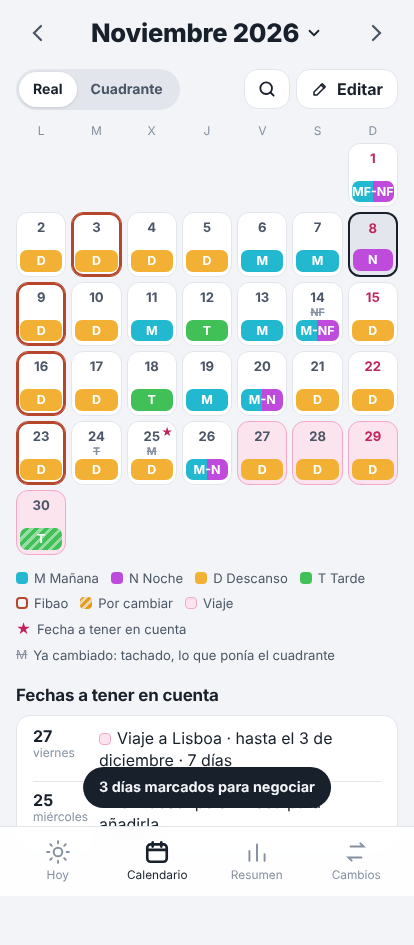
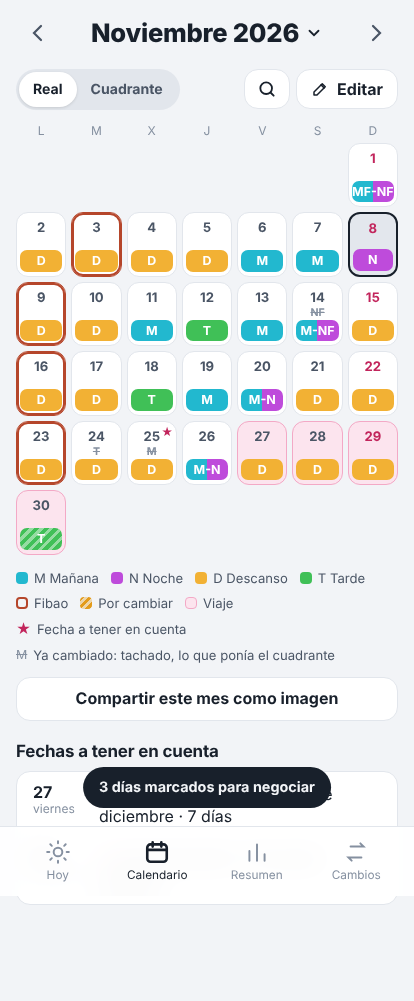
v16: noche de hoy, cuenta atrás, aviso de descanso, peticiones apuntadas, saldo de días, complementos, compartir mes; corrige fin de turnos de noche
Claude-Session: https://claude.ai/code/session_01SQ5JsgcWyGYgjEVdavBUjE

diff --git a/app.js b/app.js
@@ -91,7 +91,7 @@
     (S.data.dias || []).forEach(d => { MAP[d.f] = Object.assign({}, d); });
     Object.keys(S.pending).forEach(f => { MAP[f] = Object.assign({}, MAP[f] || { f }, S.pending[f]); clean(MAP[f]); });
   }
-  function clean(d) { ['r', 'o', 'n', 'c', 'pm', 'sw', 'vj'].forEach(k => { if (d[k] === '') delete d[k]; }); ['fb', 'fe', 'im', 'pd', 'eu'].forEach(k => { if (!d[k]) delete d[k]; }); }
+  function clean(d) { ['r', 'o', 'n', 'c', 'pm', 'sw', 'vj', 'pt'].forEach(k => { if (d[k] === '') delete d[k]; }); ['fb', 'fe', 'im', 'pd', 'eu'].forEach(k => { if (!d[k]) delete d[k]; }); }
 
   /* ───────── horarios ───────── */
   function intervals(fromDate, days) {
@@ -107,11 +107,33 @@
     }
     return out.sort((a, b) => a.start - b.start);
   }
+  // descanso entre turnos: tras una noche, al menos 12 h hasta el siguiente; nunca turnos que se pisen
+  function avisosDescanso(over) {
+    const fs = new Set();
+    Object.keys(over).forEach(f => [-1, 0, 1].forEach(k => fs.add(iso(addDays(parseISO(f), k)))));
+    const ints = [];
+    [...fs].sort().forEach(f => {
+      const dt = parseISO(f), d = over[f] ? Object.assign({}, day(f), over[f]) : day(f);
+      parts(real(d)).forEach(p => { const c = info(p.base); if (c.tipo === 'turno' && c.inicio && c.fin) ints.push(mkInt(dt, c.inicio, c.fin, shortName(p.base), p.base, f)); });
+      if (d.fb) ints.push(mkInt(dt, cfg().fibao_inicio || '08:00', cfg().fibao_fin || '14:00', 'Fibao', 'FB', f));
+    });
+    ints.sort((x, y) => x.start - y.start);
+    const out = [];
+    for (let i = 1; i < ints.length; i++) {
+      const A = ints[i - 1], B = ints[i], gap = (B.start - A.end) / 36e5;
+      if (!over[A.f] && !over[B.f]) continue;
+      const dA = parseISO(A.f), dB = parseISO(B.f);
+      const txt = (x, dt) => x.name.toLowerCase() + ' del ' + DIAS[dt.getDay()] + ' ' + dt.getDate();
+      if (gap < 0) out.push('La ' + txt(A, dA) + ' (hasta las ' + A.fin + ') se pisa con ' + (B.base === 'FB' ? 'Fibao' : 'la ' + B.name.toLowerCase()) + ' del ' + DIAS[dB.getDay()] + ' ' + dB.getDate() + ' (desde las ' + B.ini + ').');
+      else if (A.base === 'N' && gap < 12) out.push('Sales de la noche del ' + DIAS[dA.getDay()] + ' ' + dA.getDate() + ' a las ' + A.fin + ' y entras ' + (B.base === 'FB' ? 'en Fibao' : 'de ' + B.name.toLowerCase()) + ' a las ' + B.ini + ': solo ' + fmtH(gap) + ' h de descanso.');
+    }
+    return out;
+  }
   function mkInt(dt, ini, fin, name, base, f) {
     const [a, b] = ini.split(':').map(Number), [c, e] = fin.split(':').map(Number);
     const start = new Date(dt.getFullYear(), dt.getMonth(), dt.getDate(), a, b);
     let end = new Date(dt.getFullYear(), dt.getMonth(), dt.getDate(), c, e);
-    if (end <= start) end = addDays(end, 1);
+    if (end <= start) end = new Date(dt.getFullYear(), dt.getMonth(), dt.getDate() + 1, c, e); // turno que acaba al día siguiente (addDays quitaría la hora)
     return { start, end, name, base, f, ini, fin };
   }
   function rel(ms) {
@@ -198,22 +220,25 @@
     }
 
     // datos rápidos
-    const nextOf = (pred) => { for (let i = 1; i < 120; i++) { const dt = addDays(now, i); if (pred(real(day(iso(dt))), day(iso(dt)))) return dt; } return null; };
-    const nN = nextOf(c => parts(c).some(p => p.base === 'N'));
+    const nextOf = (pred, from = 1) => { for (let i = from; i < 120; i++) { const dt = addDays(now, i); if (pred(real(day(iso(dt))), day(iso(dt)))) return dt; } return null; };
+    const nN = nextOf(c => parts(c).some(p => p.base === 'N'), 0); // la noche de hoy aún no ha empezado o está en curso
     const nL = nextOf(c => c && !worked(c));
-    const nFb = nextOf((c, dd) => !!dd.fb);
+    const hm = String(now.getHours()).padStart(2, '0') + ':' + String(now.getMinutes()).padStart(2, '0');
+    const nFb = nextOf((c, dd) => !!dd.fb, hm < (cfg().fibao_fin || '14:00') ? 0 : 1);
     const wk0 = addDays(now, -((now.getDay() + 6) % 7));
     let wkH = 0; for (let i = 0; i < 7; i++) wkH += hoursOf(real(day(iso(addDays(wk0, i)))));
-    const inDays = (dt) => { const n = Math.round((dt - new Date(now.getFullYear(), now.getMonth(), now.getDate())) / 864e5); return n === 1 ? 'mañana' : 'en ' + n + ' días'; };
+    const dayN = (dt) => Math.round((new Date(dt.getFullYear(), dt.getMonth(), dt.getDate()) - new Date(now.getFullYear(), now.getMonth(), now.getDate())) / 864e5);
+    const inDays = (dt, hoy = 'hoy') => { const n = dayN(dt); return n === 0 ? hoy : n === 1 ? 'mañana' : 'en ' + n + ' días'; };
+    const diaCorto = (dt) => dayN(dt) === 0 ? 'Hoy' : cap(DIAS[dt.getDay()]) + ' ' + dt.getDate();
     const fact = (k, v, s) => `<div class="fact"><div class="k">${k}</div><div class="v">${v}</div><div class="s">${s || ''}</div></div>`;
     const sal = saldos();
     $('#hoy-debe').innerHTML = sal.length ? `<h3>Horas pendientes de devolver</h3><button type="button" class="card debe" data-s="cam">` + sal.slice(0, 5).map(([n, h]) =>
       `<span class="saldo${isCasa(n) ? ' casa' : ''}"><span class="who">${isCasa(n) ? ICON_CASA : ''}${esc(n)}</span><span class="h ${h > 0 ? 'pos' : 'neg'}">${h > 0 ? 'te debe ' : 'le debes '}${fmtH(Math.abs(h))} h</span></span>`).join('') + '</button>' : '';
     $('#facts').innerHTML =
-      fact('Próxima noche', nN ? cap(DIAS[nN.getDay()]) + ' ' + nN.getDate() : '—', nN ? inDays(nN) : 'sin noches a la vista') +
+      fact('Próxima noche', nN ? diaCorto(nN) : '—', nN ? inDays(nN, 'esta noche') : 'sin noches a la vista') +
       fact('Próximo día libre', nL ? cap(DIAS[nL.getDay()]) + ' ' + nL.getDate() : '—', nL ? inDays(nL) : '') +
       fact('Esta semana', fmtH(wkH) + ' h', 'de lunes a domingo') +
-      fact('Próximo Fibao', nFb ? cap(DIAS[nFb.getDay()]) + ' ' + nFb.getDate() : '—', nFb ? inDays(nFb) : 'sin mañanas apuntadas');
+      fact('Próximo Fibao', nFb ? diaCorto(nFb) : '—', nFb ? inDays(nFb) : 'sin mañanas apuntadas') + cuentaAtras(now, dayN);
 
     // año
     const st = stats(now.getFullYear());
@@ -344,6 +369,82 @@
     if (code && isWorkBase(code) && isSunOrFest(f)) code += 'F';
     setLayer(f, S.layer, code);
   }
+  /* ───────── compartir el mes como imagen ───────── */
+  async function exportMes() {
+    const m0 = S.month, y = m0.getFullYear(), m = m0.getMonth(), layer = S.layer;
+    const cs = getComputedStyle(document.documentElement);
+    const col = (c) => { c = String(c || '').trim(); const v = c.match(/^var\((--[\w-]+)\)$/); return v ? cs.getPropertyValue(v[1]).trim() || '#888' : c || '#888'; };
+    const W = 1080, pad = 48, gap = 10, cw = (W - pad * 2 - gap * 6) / 7, ch = cw * 1.12;
+    const lead = (m0.getDay() + 6) % 7, nd = new Date(y, m + 1, 0).getDate(), rows = Math.ceil((lead + nd) / 7);
+    const used = new Set(), H = 250 + rows * (ch + gap) + 150;
+    const cv = document.createElement('canvas'); cv.width = W; cv.height = H;
+    const g = cv.getContext('2d'), FONT = '-apple-system, "Segoe UI", Roboto, sans-serif';
+    const rr = (x, y0, w, h, r) => { g.beginPath(); g.moveTo(x + r, y0); g.arcTo(x + w, y0, x + w, y0 + h, r); g.arcTo(x + w, y0 + h, x, y0 + h, r); g.arcTo(x, y0 + h, x, y0, r); g.arcTo(x, y0, x + w, y0, r); g.closePath(); };
+    g.fillStyle = '#F2F4F7'; g.fillRect(0, 0, W, H);
+    g.fillStyle = '#18202B'; g.font = `800 64px ${FONT}`; g.fillText(cap(MESES[m]) + ' ' + y, pad, 110);
+    g.fillStyle = '#4A5565'; g.font = `500 32px ${FONT}`; g.fillText('Turnos' + (cfg().nombre ? ' de ' + cfg().nombre : '') + (layer === 'orig' ? ' · cuadrante' : ''), pad, 160);
+    g.font = `700 26px ${FONT}`; g.textAlign = 'center';
+    ['L', 'M', 'X', 'J', 'V', 'S', 'D'].forEach((x, i) => { g.fillStyle = i === 6 ? '#C2255C' : '#8590A0'; g.fillText(x, pad + i * (cw + gap) + cw / 2, 222); });
+    for (let k = 1; k <= nd; k++) {
+      const i = lead + k - 1, x = pad + (i % 7) * (cw + gap), y0 = 240 + Math.floor(i / 7) * (ch + gap);
+      const f = iso(new Date(y, m, k)), d = day(f), c = layer === 'orig' ? (d.o || '') : real(d);
+      rr(x, y0, cw, ch, 18); g.fillStyle = d.vj ? '#FCE4EE' : '#FFFFFF'; g.fill();
+      g.lineWidth = d.fb ? 6 : 2; g.strokeStyle = d.fb ? col('var(--fibao)') : d.vj ? '#F3A9C6' : '#E2E6EC'; g.stroke();
+      g.fillStyle = isSunOrFest(f) ? '#C2255C' : '#4A5565'; g.font = `700 30px ${FONT}`; g.fillText(String(k), x + cw / 2, y0 + 42);
+      if (d.im) { g.fillStyle = '#C2255C'; g.font = `700 26px ${FONT}`; g.fillText('★', x + cw - 22, y0 + 32); }
+      const ps = parts(c);
+      if (ps.length) {
+        const px = x + 10, pw = cw - 20, py = y0 + ch - 58, ph = 44;
+        g.save(); rr(px, py, pw, ph, 10); g.clip();
+        ps.forEach((p, j) => { g.fillStyle = col(info(p.base).color); g.fillRect(px + pw * j / ps.length, py, pw / ps.length + 1, ph); used.add(p.base); });
+        if (d.pd) { g.strokeStyle = 'rgba(255,255,255,.5)'; g.lineWidth = 5; for (let s = -ph; s < pw + ph; s += 14) { g.beginPath(); g.moveTo(px + s, py + ph); g.lineTo(px + s + ph, py); g.stroke(); } }
+        g.restore();
+        g.fillStyle = '#FFFFFF'; g.font = `800 ${c.length > 4 ? 22 : 28}px ${FONT}`; g.fillText(c, px + pw / 2, py + 31);
+      }
+    }
+    // leyenda
+    g.textAlign = 'left'; g.font = `500 26px ${FONT}`;
+    let lx = pad, ly = 240 + rows * (ch + gap) + 50;
+    const item = (color, txt, border) => {
+      const w = g.measureText(txt).width + 50;
+      if (lx + w > W - pad) { lx = pad; ly += 44; }
+      rr(lx, ly - 22, 26, 26, 6); g.fillStyle = color; g.fill(); if (border) { g.lineWidth = 3; g.strokeStyle = border; g.stroke(); }
+      g.fillStyle = '#4A5565'; g.fillText(txt, lx + 36, ly); lx += w + 18;
+    };
+    [...used].forEach(b => item(col(info(b).color), b + ' ' + info(b).nombre));
+    for (let k = 1; k <= nd; k++) { const d = day(iso(new Date(y, m, k))); if (d.fb) { item('#FFFFFF', 'Fibao', col('var(--fibao)')); break; } }
+    for (let k = 1; k <= nd; k++) { const d = day(iso(new Date(y, m, k))); if (d.vj) { item('#FCE4EE', d.vj, '#F3A9C6'); break; } }
+    const blob = await new Promise(res => cv.toBlob(res, 'image/png'));
+    const name = 'Turnos ' + MESES[m] + ' ' + y + '.png';
+    const file = new File([blob], name, { type: 'image/png' });
+    if (navigator.canShare && navigator.canShare({ files: [file] })) {
+      try { await navigator.share({ files: [file], title: 'Turnos ' + MESES[m] + ' ' + y }); } catch (e) { /* cancelado */ }
+      return;
+    }
+    const url = URL.createObjectURL(blob), a2 = document.createElement('a');
+    a2.href = url; a2.download = name; document.body.appendChild(a2); a2.click(); a2.remove();
+    setTimeout(() => URL.revokeObjectURL(url), 5000);
+  }
+
+  /* ───────── cuenta atrás: vacaciones y viajes ───────── */
+  function cuentaAtras(now, dayN) {
+    const isV = (d) => parts(real(d)).some(p => p.base === 'V');
+    const out = [];
+    const bloque = (test, label, nombre) => {
+      for (let i = 0; i < 400; i++) {
+        const dt = addDays(now, i), d = day(iso(dt));
+        if (!test(d)) continue;
+        let fin = dt; while (test(day(iso(addDays(fin, 1))))) fin = addDays(fin, 1);
+        const n = dayN(dt), hasta = fin.getDate() + ' ' + MESES_C[fin.getMonth()];
+        out.push(`<div class="fact count"><div class="k">${label}</div><div class="v">${n === 0 ? 'Ya estás' : n === 1 ? 'Mañana' : n + ' días'}</div><div class="s">${esc(nombre(d))}${n === 0 ? ' · hasta el ' + hasta : ' · ' + dt.getDate() + ' ' + MESES_C[dt.getMonth()] + (fin > dt ? '–' + hasta : '')}</div></div>`);
+        return;
+      }
+    };
+    bloque(isV, 'Vacaciones', () => 'Vacaciones');
+    bloque(d => !!d.vj, 'Viaje', d => d.vj);
+    return out.join('');
+  }
+
   /* ───────── saldos con compañeras y la casa (todos los años) ───────── */
   function saldos() {
     const s = {};
@@ -366,6 +467,21 @@
   }
   const diaTxt = (dt, ref) => DIAS[dt.getDay()] + ' ' + dt.getDate() + (!ref || dt.getMonth() !== ref.getMonth() ? ' de ' + MESES[dt.getMonth()] : '');
   /* ───────── pedir el cambio por WhatsApp ───────── */
+  const peticiones = (d) => { try { const v = JSON.parse(d.pt || '[]'); return Array.isArray(v) ? v : []; } catch (e) { return []; } };
+  function petTxt(p, ref) {
+    const dt = parseISO(p.d), cuando = dt.getDate() + ' ' + MESES_C[dt.getMonth()];
+    const como = p.m === 'dev' ? (p.o && p.o.length ? 'le ofreces ' + p.o.map(f => diaTxt(parseISO(f), parseISO(ref))).join(', ') : 'con devolución') : p.m === 'pago' ? (p.e ? 'pagándolo, ' + fmtE(p.e) : 'pagándolo') : 'a convenir';
+    return 'Pedido ' + (p.a ? 'a ' + p.a + ' ' : '') + 'el ' + cuando + ' · ' + como;
+  }
+  function apuntarPeticion() {
+    const e = parseFloat(String(WA.eur).replace(',', '.'));
+    const p = { a: ($('#wa-a').value || '').trim().slice(0, 40), d: iso(new Date()), m: WA.mode };
+    if (WA.mode === 'dev' && WA.days.length) p.o = WA.days.slice().sort();
+    if (WA.mode === 'pago' && isFinite(e) && e > 0) p.e = e;
+    const list = peticiones(day(WA.f)).concat(p).slice(-6);
+    const f = WA.f;
+    setTimeout(() => { save(f, { pt: JSON.stringify(list) }); closeEditor(); toast('Apuntado en «Por negociar»' + (p.a ? ': pedido a ' + p.a : '')); }, 400);
+  }
   let WA = null;
   function mensajeCambio() {
     const d = day(WA.f), dt = parseISO(WA.f), c = real(d);
@@ -391,6 +507,7 @@
         <small class="muted" id="wa-help" style="display:block;margin-top:6px"></small></div>
       <div class="field" id="wa-dev"><span>Días que le ofreces (toca uno o varios)</span><div class="mini" id="wa-mini"></div></div>
       <label class="field" id="wa-pago" hidden><span>Cuánto le pagas (opcional)</span><input id="wa-eur" inputmode="decimal" placeholder="Ej.: 60" autocomplete="off"></label>
+      <label class="field"><span>A quién se lo pides (para apuntarlo; opcional)</span><input id="wa-a" list="wa-names" placeholder="Nombre de la compañera" autocomplete="off"><datalist id="wa-names">${[...new Set(Object.values(MAP).map(d => d.c).filter(c => c && !isCasa(c)))].sort().map(n => `<option value="${esc(n)}">`).join('')}</datalist></label>
       <label class="field"><span>Mensaje (puedes cambiarlo; si cambias una opción de arriba, se vuelve a escribir)</span><textarea id="wa-txt" rows="4"></textarea></label>
       <div class="actions"><button type="button" class="btn ghost" id="ed-back">Volver</button><a class="btn" id="wa-go" target="_blank" rel="noopener" style="display:inline-flex;align-items:center;justify-content:center;text-decoration:none">Abrir WhatsApp</a></div>`;
     drawWA();
@@ -665,6 +782,7 @@
       <div class="field"><span>Importe</span><div class="money">
         <div class="seg" role="group" aria-label="Cobro o pago"><button data-eus="1" aria-pressed="${ED.eu >= 0}">Cobro</button><button data-eus="-1" aria-pressed="${ED.eu < 0}">Pago</button></div>
         <input id="ed-eu" inputmode="decimal" value="${ED.eu ? String(Math.abs(ED.eu)).replace('.', ',') : ''}" placeholder="0" aria-label="Importe en euros"><span class="muted">€</span></div></div></div>
+      <div class="warnbox" id="ed-warn" hidden></div>
       <div class="actions"><button class="btn danger" id="ed-clear">Vaciar</button><button class="btn ghost" id="ed-back">Volver</button><button class="btn" id="ed-save">Guardar</button></div>`;
     drawCodes(); drawSwap();
     sh.classList.add('on'); $('#scrim').classList.add('on');
@@ -681,6 +799,7 @@
       const i = ED.sel.indexOf(b);
       return `<button class="code-btn" data-code="${b}" aria-pressed="${i >= 0}" style="background:${info(b).color};--cc:${info(b).color}" title="${esc(info(b).nombre)}">${esc(b)}${i >= 0 && ED.sel.length > 1 ? '<span class="ord">' + (i + 1) + '</span>' : ''}</button>`;
     }).join('');
+    if (ED.warned) { ED.warned = false; const bx = $('#ed-warn'); if (bx) { bx.hidden = true; $('#ed-save').textContent = 'Guardar'; } }
     const code = edCode();
     $('#ed-prev').innerHTML = code ? pill(code, 'pill') + ' <span style="font-size:1rem;color:var(--ink-2)">' + esc(parts(code).map(p => info(p.base).nombre).join(' + ')) + '</span>' : '<span class="muted" style="font-size:1rem">Sin turno</span>';
     $('#ed-hours').textContent = code ? fmtH(hoursOf(code)) + ' h' : '';
@@ -729,6 +848,28 @@
   function closeSheet() { $('#sheet').classList.remove('on'); $('#scrim').classList.remove('on'); ED = null; if (S.reloadPending) setTimeout(S.reloadPending, 300); }
   // Guardar siempre cierra la ventana; si algo falla, se avisa en vez de quedarse abierta
   function saveEditor() {
+    // primero, comprobar el descanso; si hay problema, se avisa y el segundo toque guarda igualmente
+    try {
+      if (!ED.warned) {
+        const code = edCode(), d = day(ED.f), over = {};
+        const realNuevo = ED.layer === 'real' ? code : (!d.r || d.r === d.o ? code : d.r);
+        over[ED.f] = { r: realNuevo, o: ED.layer === 'orig' ? code : d.o, fb: ED.fb ? 1 : 0 };
+        const sw = ED.mode === 'dia' && $('#ed-sw').value && $('#ed-sw').value !== ED.f ? $('#ed-sw').value : '';
+        if (sw && ED.swc) over[sw] = { r: compose(parts(ED.swc).map(p => ({ base: p.base, f: isSunOrFest(sw) }))) };
+        // solo los problemas nuevos: lo que ya estaba así (p. ej. Fibao al salir de noche) no se vuelve a avisar
+        const antes = {}; Object.keys(over).forEach(k => { antes[k] = {}; });
+        const ya = new Set(avisosDescanso(antes));
+        const w = avisosDescanso(over).filter(x => !ya.has(x));
+        if (w.length) {
+          ED.warned = true;
+          const box = $('#ed-warn'); box.hidden = false;
+          box.innerHTML = '<b>Ojo con el descanso</b>' + w.map(x => '<p>' + esc(x) + '</p>').join('') + '<p class="muted">Si está bien así, pulsa «Guardar igualmente».</p>';
+          $('#ed-save').textContent = 'Guardar igualmente';
+          box.scrollIntoView({ behavior: 'smooth', block: 'center' });
+          return;
+        }
+      }
+    } catch (err) { /* si falla la comprobación, se guarda igual */ }
     try { saveEditorInner(); } catch (err) { toast('No se ha podido guardar: ' + (err && err.message || err)); }
     finally { closeEditor(); }
   }
@@ -806,10 +947,55 @@
       ${s(st.fest, 'turnos en festivo', 'var(--fest)')}${s(st.dom, 'domingos trabajados', 'var(--fest)')}${s(st.fb, 'mañanas en Fibao', 'var(--fibao)')}
       ${s(st.V + (vac ? '<small style="font-size:.9rem;color:var(--ink-3)"> / ' + vac + '</small>' : ''), 'días de vacaciones', 'var(--v)')}${s(Object.values(st.comp).reduce((a, b) => a + b, 0), 'compensaciones', 'var(--comp)')}${s(st.cambios, 'días cambiados', 'var(--ink-3)')}</div>
       <p class="muted" style="font-size:.85rem;margin:8px 2px 0">Compensaciones: ${esc(compTxt)}</p>`;
+    html += saldoDias(y, vac) + complementos(y);
     html += `<div class="section"><h3>Horas por mes</h3><div class="card chart">${monthChart(st)}<div class="keyline"><span><i style="background:var(--ink)"></i>Real</span><span><i style="background:var(--line);outline:1px solid var(--ink-3)"></i>Cuadrante</span></div></div></div>`;
     html += `<div class="section"><h3>Horas en el SAS, año a año</h3><div class="card chart">${yearsChart(y)}</div></div>`;
     html += `<div class="section"><h3>Turnos por año</h3><div class="card chart">${turnosChart(y)}</div></div>`;
     $('#res-body').innerHTML = html;
+  }
+  /* ───────── saldo de días ───────── */
+  function saldoDias(y, vac) {
+    const today = iso(new Date()), V = { pas: 0, fut: 0, nat: 0 }, comp = {};
+    for (let dt = new Date(y, 0, 1); dt.getFullYear() === y; dt = addDays(dt, 1)) {
+      const f = iso(dt), d = MAP[f]; if (!d) continue;
+      parts(real(d)).forEach(p => {
+        const k = f <= today ? 'pas' : 'fut';
+        // vacaciones: cuentan los días laborables (de lunes a viernes y no festivos), como los 22 del SAS
+        if (p.base === 'V') { V.nat++; if (dt.getDay() !== 6 && !isSunOrFest(f)) V[k]++; }
+        else if (info(p.base).tipo === 'compensacion') { comp[p.base] = comp[p.base] || { pas: 0, fut: 0 }; comp[p.base][k]++; }
+      });
+    }
+    const tot = V.pas + V.fut, quedan = vac ? vac - tot : null;
+    let h = `<div class="section"><h3>Saldo de días ${y}</h3><div class="card">`;
+    h += `<div class="tot" style="margin-top:0;border-top:0;padding-top:0"><span>Vacaciones${vac ? ' (' + vac + ' laborables al año)' : ''}</span><b>${vac ? (quedan > 0 ? 'te quedan ' + quedan : quedan === 0 ? 'todas apuntadas' : 'te pasas en ' + (-quedan)) : tot + ' días'}</b></div>`;
+    if (vac) h += `<div class="meter vac"><b style="width:${Math.min(100, V.pas / vac * 100)}%"></b><i style="left:${Math.min(100, V.pas / vac * 100)}%;width:${Math.max(0, Math.min(100, tot / vac * 100) - Math.min(100, V.pas / vac * 100))}%"></i></div>`;
+    h += `<p class="muted" style="margin:4px 0 0;font-size:.88rem">${V.pas} ${V.pas === 1 ? 'laborable disfrutado' : 'laborables disfrutados'} · ${V.fut} ${V.fut === 1 ? 'apuntado' : 'apuntados'} para más adelante · ${V.nat} días naturales con V${vac ? '' : ' · pon en Ajustes los días de vacaciones al año para ver cuántos te quedan'}</p>`;
+    const ks = Object.keys(comp).sort();
+    if (ks.length) h += `<div class="desg" style="margin-top:12px">` + ks.map(k => `<div class="dr"><span>${esc(k)}<small>${esc(info(k).nombre)}</small></span><b>${comp[k].pas} ${comp[k].pas === 1 ? 'disfrutado' : 'disfrutados'}${comp[k].fut ? ' · ' + comp[k].fut + ' más adelante' : ''}</b></div>`).join('') + '</div>';
+    return h + '</div></div>';
+  }
+
+  /* ───────── complementos estimados (nocturnidad y festivos) ───────── */
+  function complementos(y) {
+    const eN = num(cfg().eur_noche_h), eF = num(cfg().eur_festivo_h);
+    const ms = Array.from({ length: 12 }, () => ({ n: 0, f: 0 }));
+    for (let dt = new Date(y, 0, 1); dt.getFullYear() === y; dt = addDays(dt, 1)) {
+      const f = iso(dt), d = MAP[f]; if (!d) continue;
+      parts(real(d)).forEach(p => {
+        if (!isWorkBase(p.base)) return;
+        const h = num(info(p.base).horas);
+        if (p.base === 'N') ms[dt.getMonth()].n += h;
+        if (p.f || isSunOrFest(f)) ms[dt.getMonth()].f += h;
+      });
+    }
+    const T = ms.reduce((s, m) => ({ n: s.n + m.n, f: s.f + m.f }), { n: 0, f: 0 });
+    if (!T.n && !T.f) return '';
+    const eur = (m) => m.n * eN + m.f * eF, hasE = eN || eF;
+    let h = `<div class="section"><h3>Complementos ${y}</h3><div class="card"><table class="comp"><thead><tr><th></th><th>Noche</th><th>Festivo</th>${hasE ? '<th>Estimado</th>' : ''}</tr></thead><tbody>`;
+    ms.forEach((m, i) => { if (m.n || m.f) h += `<tr><td>${cap(MESES[i])}</td><td>${fmtH(m.n)} h</td><td>${fmtH(m.f)} h</td>${hasE ? '<td>' + fmtE(eur(m)) + '</td>' : ''}</tr>`; });
+    h += `</tbody><tfoot><tr><td>Total</td><td>${fmtH(T.n)} h</td><td>${fmtH(T.f)} h</td>${hasE ? '<td>' + fmtE(eur(T)) + '</td>' : ''}</tr></tfoot></table>`;
+    h += `<p class="muted" style="margin:8px 0 0;font-size:.85rem">${hasE ? 'Estimación con tus importes por hora (' + (eN ? fmtE(eN) + ' noche' : '') + (eN && eF ? ' · ' : '') + (eF ? fmtE(eF) + ' festivo' : '') + '). Compárala con la nómina: se cobra con uno o dos meses de retraso.' : 'Pon en Ajustes cuánto te pagan por hora de noche y de festivo y aquí verás lo que deberías cobrar.'} Cuenta como festivo todo turno en domingo o festivo.</p>`;
+    return h + '</div></div>';
   }
   function monthChart(st) {
     const W = 340, H = 180, top = 14, bot = 22, left = 4, max = Math.max(1, ...st.months.map(m => Math.max(m.r, m.o)));
@@ -889,8 +1075,8 @@
     let html = q ? '' : `<div class="h3row"><h3>Por negociar${pend.length ? ' · ' + pend.length : ''}</h3><button type="button" class="btn ghost" id="trip-open" style="min-height:38px;padding:0 12px;font-size:.9rem">Planificar un viaje</button></div>`;
     if (!q) html += pend.length ? '<div class="card" style="padding:4px 16px">' + pend.map(x => `
       <button class="chg" data-edit="${x.f}" data-focus="c"><span class="dt">${x.dt.getDate()} ${MESES_C[x.dt.getMonth()]}<small>${DIAS[x.dt.getDay()]}${x.dt.getFullYear() !== y ? ' ' + x.dt.getFullYear() : ''}</small></span>
-      <span><span class="pills">${pill(real(x.d))}${x.f < today ? '<span class="muted" style="font-size:.8rem">ya pasó</span>' : ''}</span><span class="who">${esc(x.d.pm || 'Sin motivo apuntado')}</span></span>
-      <span class="resolve">Resolver</span></button>${x.f >= today ? `<button type="button" class="wa" data-wa="${x.f}">Pedir el cambio por WhatsApp</button>` : ''}`).join('') + '</div>'
+      <span><span class="pills">${pill(real(x.d))}${x.f < today ? '<span class="muted" style="font-size:.8rem">ya pasó</span>' : ''}</span><span class="who">${esc(x.d.pm || 'Sin motivo apuntado')}</span>${peticiones(x.d).slice(-2).map(p => `<span class="pet">${esc(petTxt(p, x.f))}</span>`).join('')}</span>
+      <span class="resolve">Resolver</span></button>${x.f >= today ? `<button type="button" class="wa" data-wa="${x.f}">${peticiones(x.d).length ? 'Pedírselo a otra por WhatsApp' : 'Pedir el cambio por WhatsApp'}</button>` : ''}`).join('') + '</div>'
       : '<div class="empty-note">No tienes días por negociar. Para apuntar uno, abre el día y activa «Necesito cambiar este día».</div>';
     if (!q) {
       // viajes del año: cada tramo seguido de días con el mismo nombre de viaje
@@ -936,7 +1122,7 @@
 
   /* ───────── Ajustes ───────── */
   // debe coincidir con VERSION de sw.js (turnos-vNN)
-  const APP_VERSION = '15';
+  const APP_VERSION = '16';
   function renderAj() {
     const c = cfg();
     const f = (k, label, ph, type = 'text') => `<label class="field"><span>${label}</span><input data-cfg="${k}" value="${esc(c[k] || '')}" placeholder="${ph}" inputmode="${type === 'num' ? 'decimal' : 'text'}"></label>`;
@@ -951,6 +1137,9 @@
         ${f('aviso_minutos', 'Aviso antes de cada turno (minutos)', '60', 'num')}
         <p class="muted" style="font-size:.85rem;margin:12px 0 0">Si quieres un aviso distinto para algún turno, ponlo aquí (en minutos). Vacío = el general. Por ejemplo, 180 para que la noche avise 3 horas antes.</p>
         <div style="display:grid;grid-template-columns:1fr 1fr;gap:10px">${f('aviso_M', 'Antes de la mañana', '', 'num')}${f('aviso_T', 'Antes de la tarde', '', 'num')}${f('aviso_N', 'Antes de la noche', '', 'num')}${f('aviso_FB', 'Antes de Fibao', '', 'num')}</div>
+        <h3 style="margin-top:18px">Complementos</h3>
+        <p class="muted" style="font-size:.85rem;margin:4px 0 0">Lo que te pagan por cada hora de noche y por cada hora en domingo o festivo. Míralo en tu nómina. Sirve para estimar en Resumen lo que deberías cobrar.</p>
+        <div style="display:grid;grid-template-columns:1fr 1fr;gap:10px">${f('eur_noche_h', '€ por hora de noche', 'Según nómina', 'num')}${f('eur_festivo_h', '€ por hora festiva', 'Según nómina', 'num')}</div>
         <button class="btn wide" id="aj-save" style="margin-top:16px">Guardar ajustes</button>
       </div>
       <div class="section card"><h3>Calendario del iPhone</h3>
@@ -1119,8 +1308,10 @@
     if (t.id === 'brush-pat') { openPattern(); return; }
     if (t.dataset.quickc && ED) { $('#ed-c').value = t.dataset.quickc; return; }
     if (t.id === 'cal-pick') { openMonthPicker(); return; }
+    if (t.id === 'cal-share') { exportMes().catch(err => toast('No se ha podido crear la imagen: ' + err.message)); return; }
     if (t.id === 'trip-open') { openTrip(); return; }
     if (t.dataset.wa) { openWA(t.dataset.wa); return; }
+    if (WA && t.id === 'wa-go') { apuntarPeticion(); return; }
     if (WA && t.dataset.wmode) { if (document.activeElement) document.activeElement.blur(); WA.mode = t.dataset.wmode; WA.edited = false; drawWA(); return; }
     if (WA && t.dataset.wmini) { WA.m = new Date(WA.m.getFullYear(), WA.m.getMonth() + Number(t.dataset.wmini), 1); drawWA(); return; }
     if (WA && t.dataset.wpick) { const f = t.dataset.wpick, i = WA.days.indexOf(f); if (i >= 0) WA.days.splice(i, 1); else WA.days.push(f); WA.edited = false; drawWA(); return; }

diff --git a/index.html b/index.html
@@ -113,6 +113,17 @@ h3{font-size:1.06rem;font-weight:700}
 .cell.tripday{background:var(--trip);border-color:var(--trip-b)}
 .cell.today.tripday{border-color:var(--ink)}
 .trip-item:last-child{border-bottom:0}
+.warnbox{margin:14px 0 0;padding:12px 14px;border-radius:14px;background:color-mix(in srgb,var(--fest) 12%,var(--surface));border:1px solid var(--fest)}
+.warnbox p{margin:6px 0 0}
+.meter.vac b{background:var(--v)}
+.meter.vac i{position:absolute;top:0;bottom:0;border-radius:999px;background:color-mix(in srgb,var(--v) 40%,transparent)}
+table.comp{width:100%;border-collapse:collapse;font-size:.92rem;font-variant-numeric:tabular-nums}
+table.comp th{font-size:.78rem;color:var(--ink-3);font-weight:600;text-align:right;padding:0 0 6px}
+table.comp td{text-align:right;padding:6px 0;border-top:1px solid var(--line)}
+table.comp td:first-child,table.comp th:first-child{text-align:left}
+table.comp tfoot td{font-weight:800;border-top:2px solid var(--ink-3)}
+.pet{display:block;font-size:.8rem;color:var(--ink-2);margin-top:2px}
+.warnbox b{color:var(--fest)}
 .daypill.tripday{background:var(--trip);border-color:var(--trip-b)}
 .leg-trip{background:var(--trip)!important;border:1px solid var(--trip-b)}
 .tripdot{display:inline-block;width:12px;height:12px;border-radius:4px;background:var(--trip);border:1px solid var(--trip-b);margin-right:6px;vertical-align:-1px}
@@ -394,6 +405,7 @@ button.wa:last-child{border-bottom:0}
       <button type="button" class="btn ghost wide" id="brush-pat" style="margin-top:10px;min-height:44px" hidden>Rellenar con un patrón…</button>
     </div>
     <div class="legend" id="legend"></div>
+    <button type="button" class="btn ghost wide" id="cal-share" style="margin-top:12px;min-height:44px;width:100%">Compartir este mes como imagen</button>
     <div id="cal-notes"></div>
   </section>
 

diff --git a/sw.js b/sw.js
@@ -1,6 +1,6 @@
 // Guarda la app para que abra sin conexión y se actualice de una pieza.
 // IMPORTANTE: cambiar VERSION en cada publicación para que los iPhone descarguen la versión nueva.
-const VERSION = 'turnos-v15';
+const VERSION = 'turnos-v16';
 const SHELL = ['./', 'index.html', 'app.js', 'config.js', 'manifest.webmanifest', 'icons/apple-touch-icon.png', 'icons/icon-192.png'];
 self.addEventListener('install', e => {
   // descarga todos los archivos frescos a la vez, para no mezclar versiones
